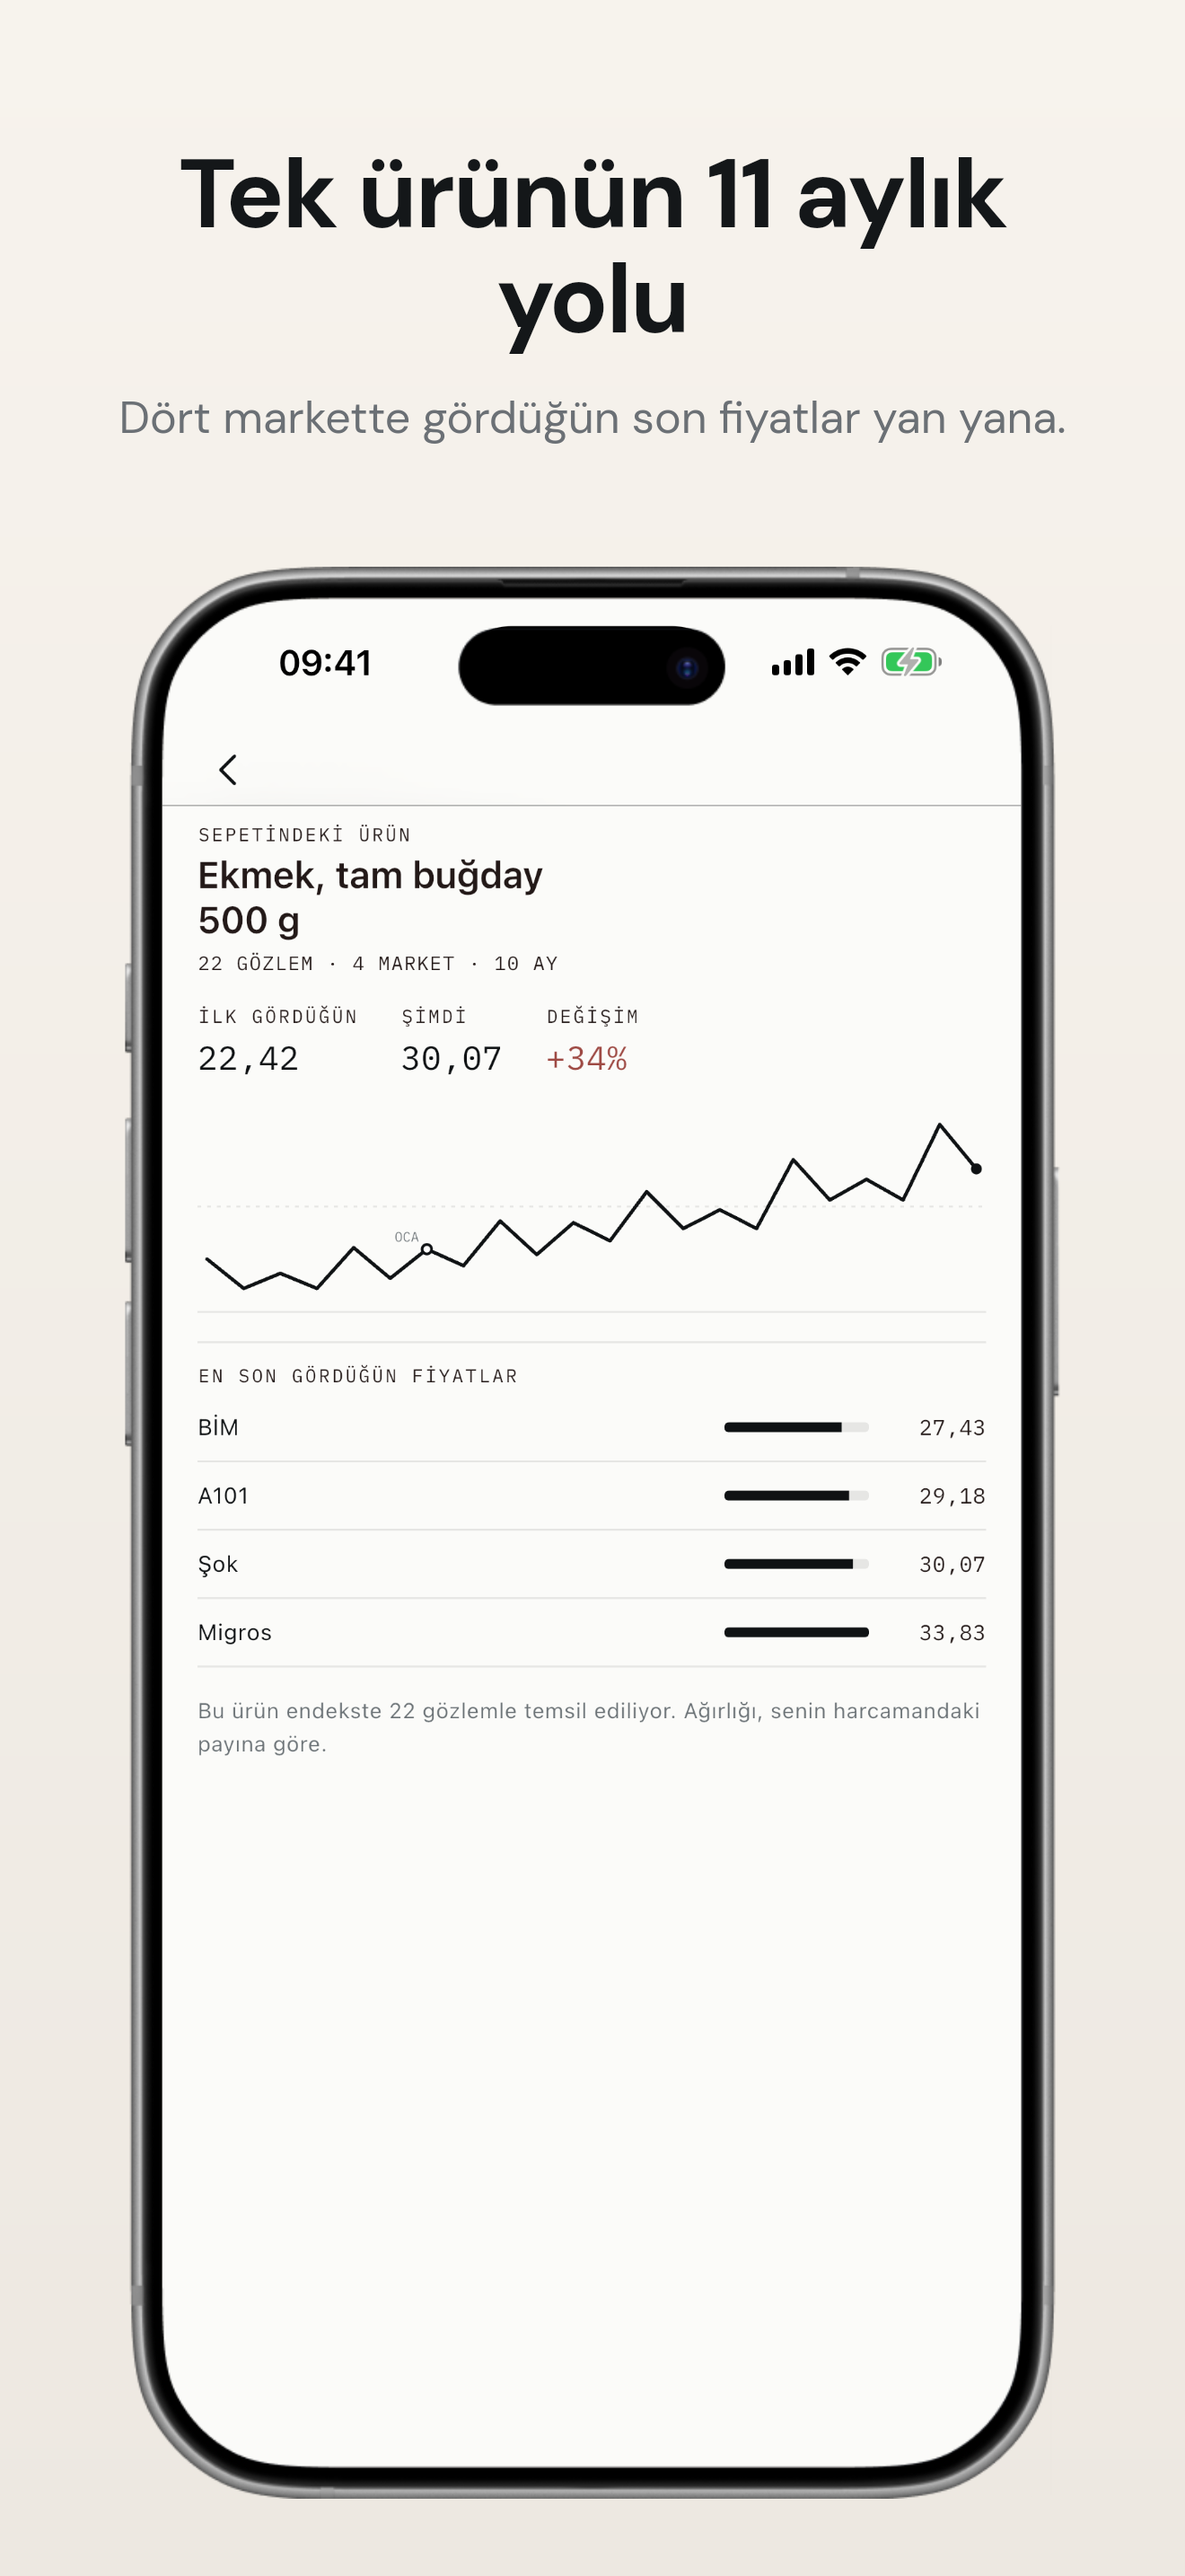
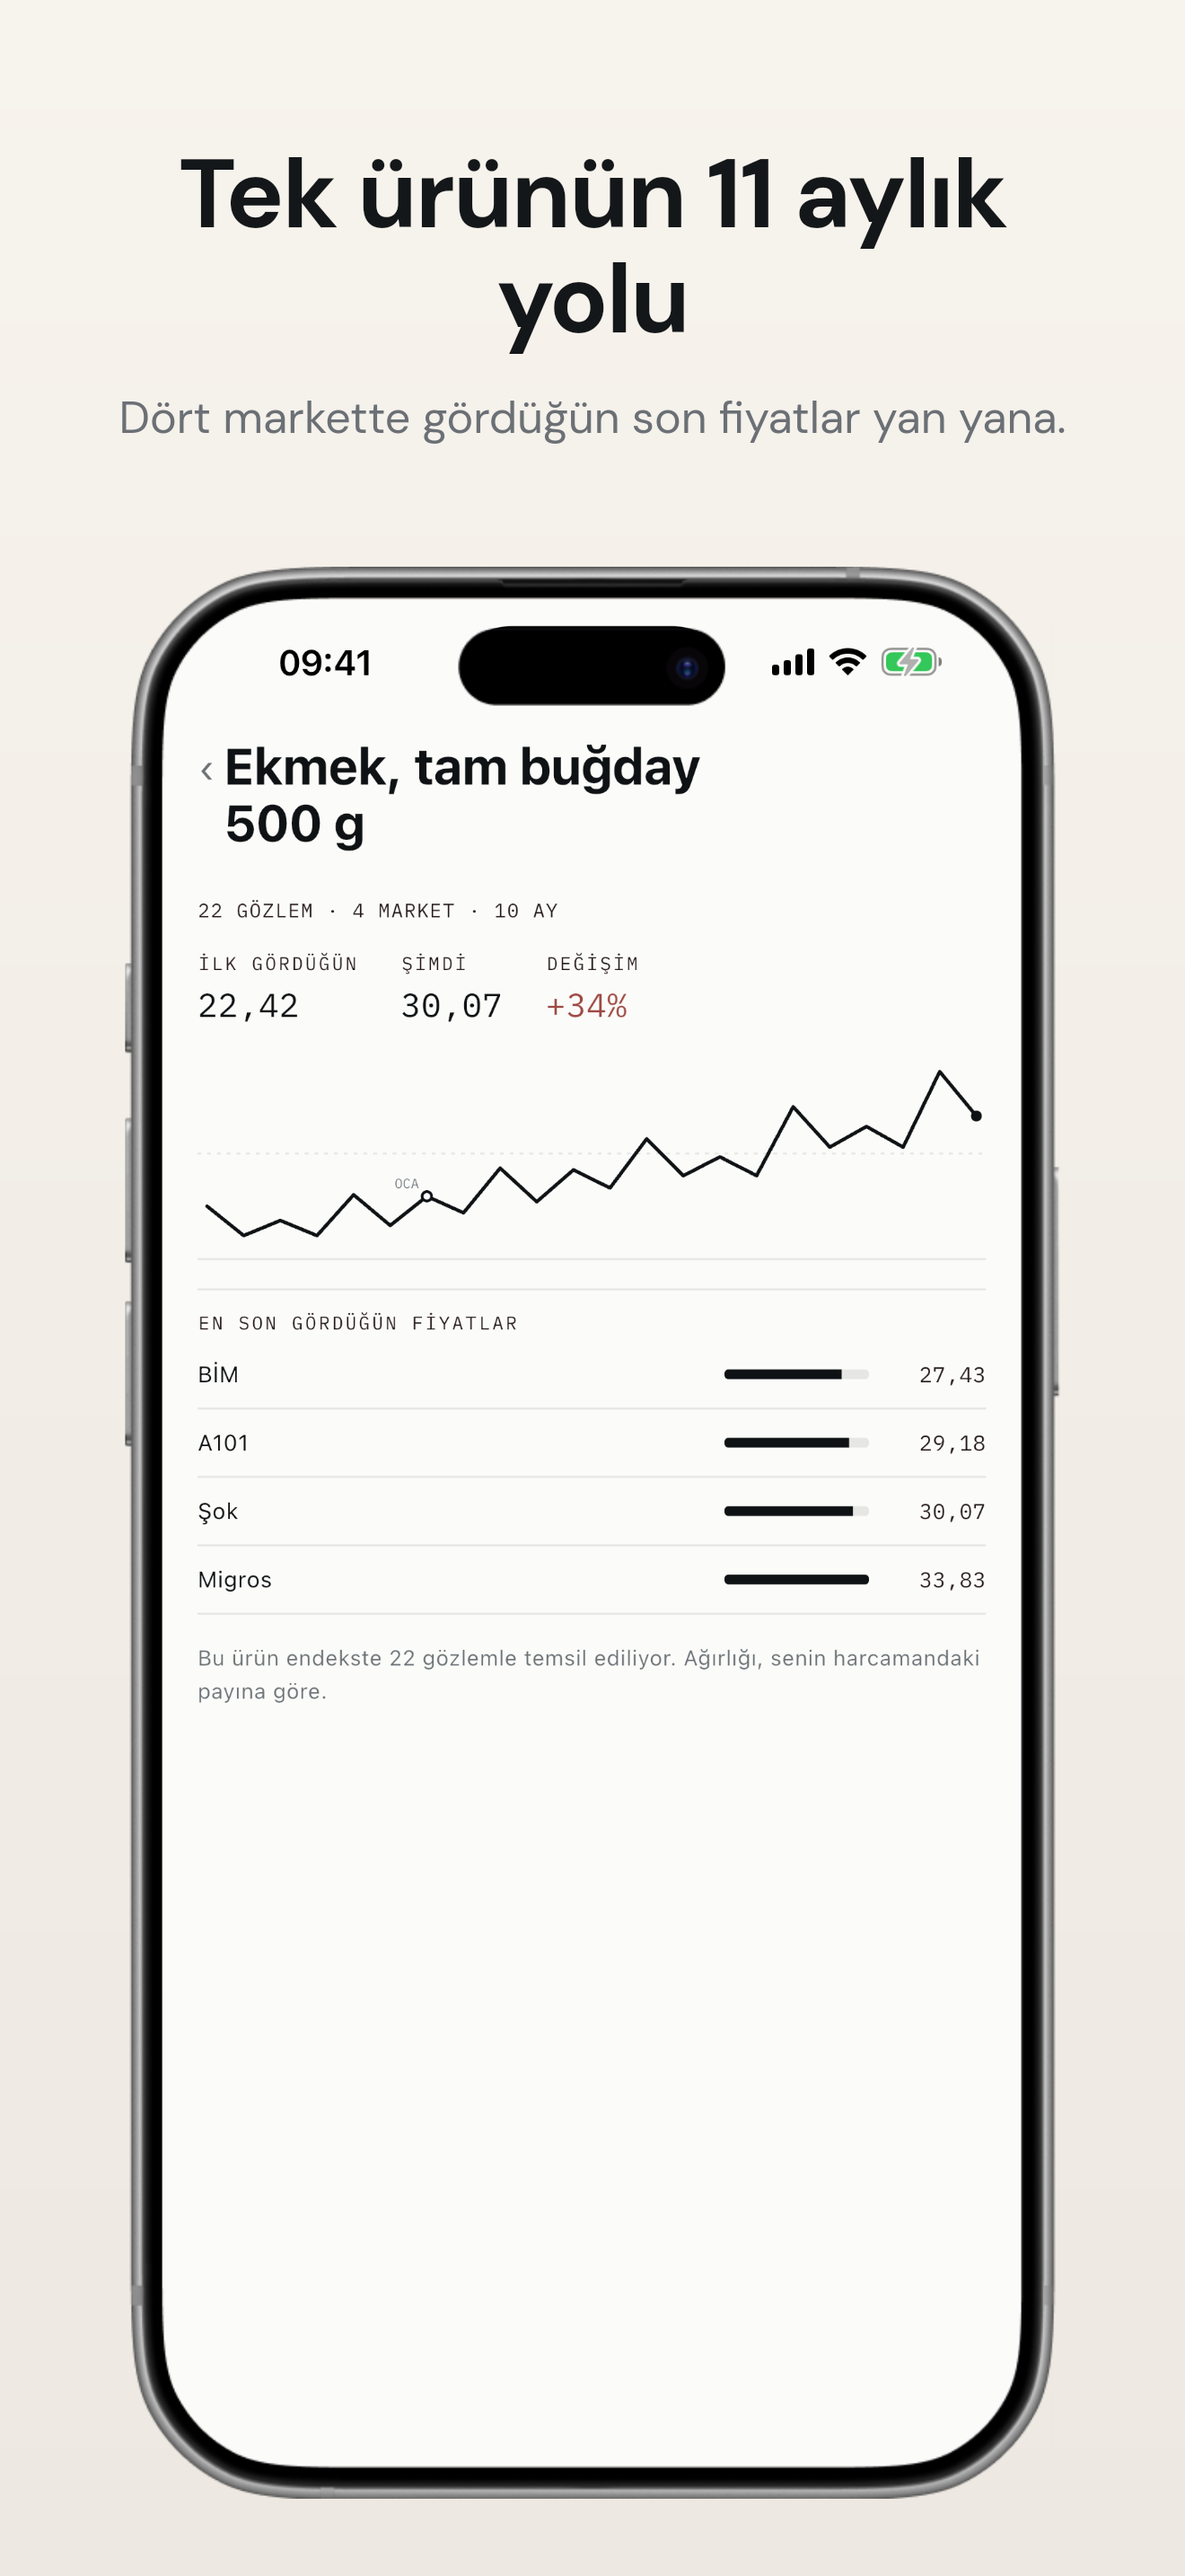
docs(ekranlar): sade yerleşimden sonra yeniden üretildi (#71)
#68-#70 on iki ekranı sade yerleşime geçirdi; README'deki ve mağazadaki
kareler o değişiklikten önceydi. Hepsi vitrin hesabıyla, iPhone 17 Pro
Max'te yeniden çekildi.

MAĞAZA. Fiş, ürün ve aylık kart kareleri değişti; endeks ve kırılım aynı
çıktı (o iki ekran #59/#60'ta zaten sadeleşmişti). Fiş karesi belirgin
biçimde iyileşti: cam bar kalkınca açılan yerle birlikte kâğıt fişin
tamamı — başlıktan barkoda ve koparma kenarına kadar — tek karede sığıyor.

README. Dördü de bayattı; ikisi artık var olmayan cam üst barı
gösteriyordu. Profil, eşleşme, ilk açılış ve karşılama yeniden çekildi ve
hepsi aynı ölçüde (1320x2868) — eskiden üçü 644x1400, biri 1206x2622'ydi.

BOŞ EKRANDA KALAN KUTU. İlk açılışta "TÜİK TÜFE" satırı hâlâ kutunun
içindeydi: #59 endeks ekranını sadeleştirirken boş durum dalını atlamış.
Hiç fişi olmayan bir kullanıcının gördüğü ilk ve tek kutu oydu. Kutu
kalktı, ayırma işini ince çizgi yapıyor.

AKIŞ KOORDİNATI. Fişler ekranında cam bar yerine kayan büyük başlık
gelince liste biraz aşağı indi; store-02-fis satır oranı 0.306'dan
0.3115'e çekildi.

goldie.design.json ARTIK YOK SAYILIYOR. Stüdyo her açılışta kendi
varsayılanlarını bu dosyaya yazıyor ve yanındaki config'i sessizce
eziyor — Türkçe gliflerini düşüren sistem font yığını ve sade yerleşim
yerine bir kareyi ikiye bölen "editorial" şablonu. Bir kez commit'lenip
mağaza karelerini bozmuştu (#67); .gitignore'a alındı.

diff --git a/lib/screens/index_screen.dart b/lib/screens/index_screen.dart
@@ -561,31 +561,31 @@ class _SourcesCard extends StatelessWidget {
     return Column(
       crossAxisAlignment: CrossAxisAlignment.start,
       children: [
-        PaperCard(
-          child: Column(
-            children: [
-              if (showOwn)
-                SeriesRow(
-                  color: context.c.ink,
-                  name: 'Senin sepetin',
-                  value: Fmt.pct1(snapshot.changePct ?? 0),
-                ),
-              for (var i = 0; i < snapshot.official.length; i++) ...[
-                if (showOwn || i > 0) const Hairline(),
-                SeriesRow(
-                  color: snapshot.official[i].official
-                      ? context.c.ref
-                      : context.c.grey,
-                  name: snapshot.official[i].title,
-                  // Girilmemiş ay uydurulmuyor.
-                  value: snapshot.official[i].value == null
-                      ? '—'
-                      : Fmt.pct1(snapshot.official[i].value!),
-                ),
-              ],
-            ],
+        // Kutu yok — ayırma işini ince çizgi yapıyor. #59'da endeks ekranının
+        // dolu hâli sadeleşirken bu dal atlanmıştı: ilk açılışta, henüz hiç
+        // fiş yokken ekrandaki tek kutu buydu ve uygulamanın geri kalanıyla
+        // konuşmuyordu.
+        const Hairline(),
+        if (showOwn)
+          SeriesRow(
+            color: context.c.ink,
+            name: 'Senin sepetin',
+            value: Fmt.pct1(snapshot.changePct ?? 0),
           ),
-        ),
+        for (var i = 0; i < snapshot.official.length; i++) ...[
+          if (showOwn || i > 0) const Hairline(),
+          SeriesRow(
+            color: snapshot.official[i].official
+                ? context.c.ref
+                : context.c.grey,
+            name: snapshot.official[i].title,
+            // Girilmemiş ay uydurulmuyor.
+            value: snapshot.official[i].value == null
+                ? '—'
+                : Fmt.pct1(snapshot.official[i].value!),
+          ),
+        ],
+        const Hairline(),
         // Eksik seriyi adıyla söyleyip girişe götürüyor.
         if (missing.isNotEmpty)
           Padding(

diff --git a/goldie/goldie.config.ts b/goldie/goldie.config.ts
@@ -19,6 +19,12 @@ import type { GoldieConfig } from "goldie/dist/config.d.ts";
  *     olmadan her akış giriş ekranında kalıyor. Bayrak yalnızca hata ayıklama
  *     derlemesinde çalışıyor, yayın derlemesinde ölü.
  *
+ * README'deki boş ilk açılış ekranı (docs/screenshots/09-ilk-acilis.png)
+ * üçüncü bir hesap istiyor: hiç fişi olmayan biri. Bayrağı
+ * vitrin-bos@sepet.app'e çevirip derlemek yetiyor — dev-login hesabı
+ * yoksa açıyor. Keychain'deki eski jeton bunu es geçirir; uygulama içinden
+ * "Çıkış yap" deyip yeniden açmak jetonu temizlemenin en kolay yolu.
+ *
  * NEDEN demo@sepet.app DEĞİL: inceleme hesabı eşleşme akışını göstermek için
  * bilerek bekleyen satır taşıyor, üstüne bir de elle taranmış gerçek bir
  * Migros fişi var. İkisi endeks ekranının tepesine kırmızı "10 kalem endekse
